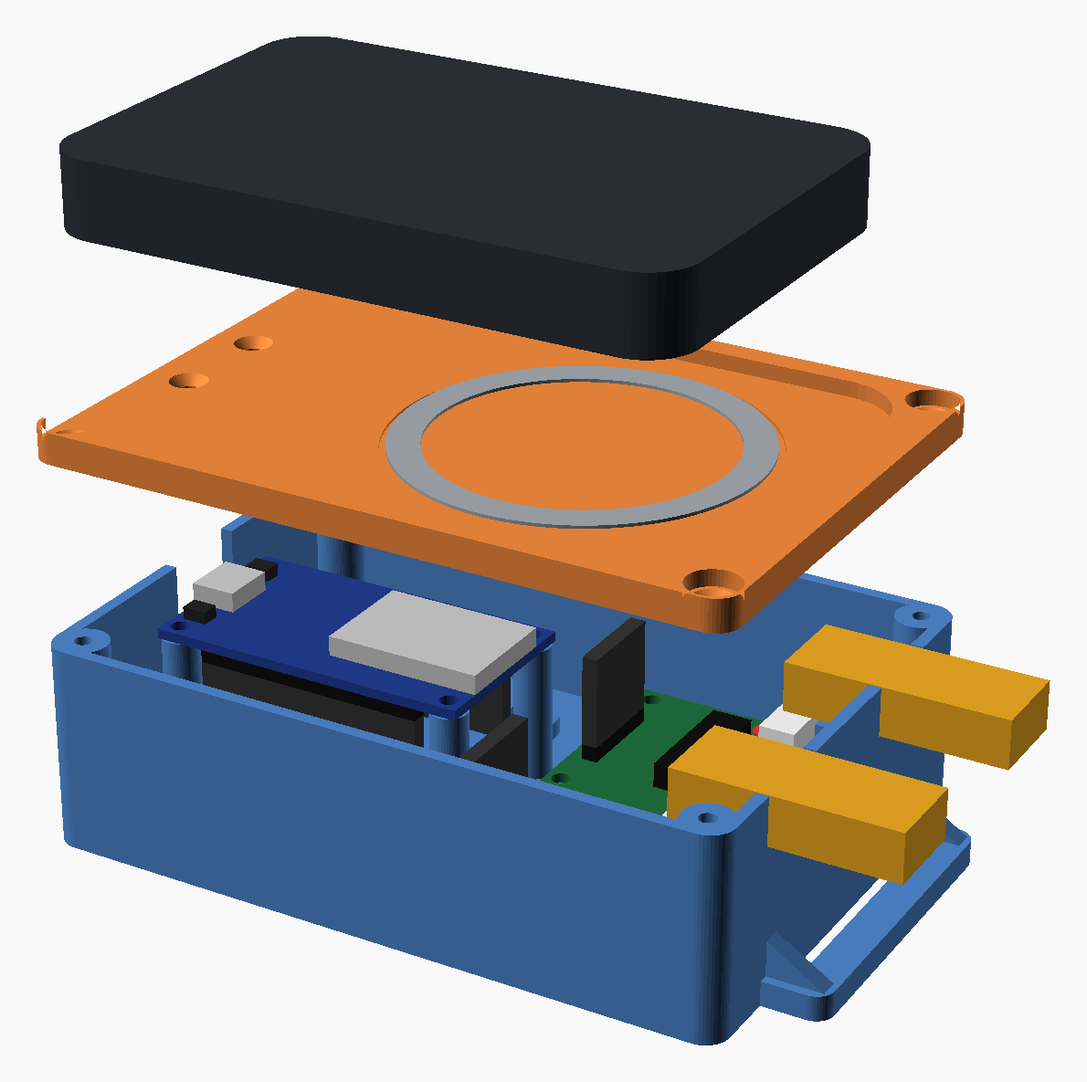
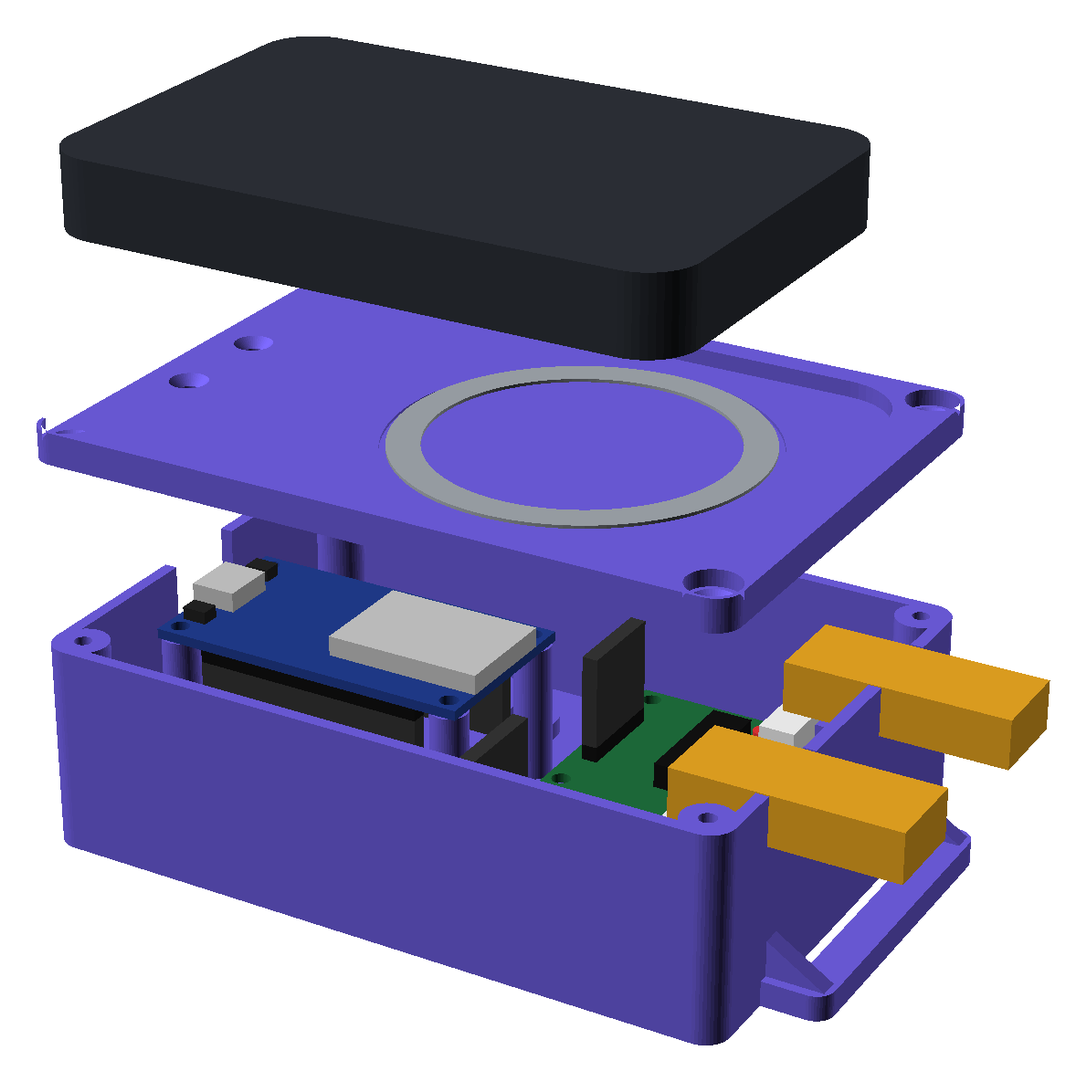
docs: restyle README figures and tighten README text
- Figures redrawn in a plain engineering-drawing style: one typeface,
  thin black lines, square corners, and a single accent taken from the
  printed enclosure.
- Architecture is now a topology diagram with numbered links that match
  the link table; the hub pipeline is simplified.
- The wiring is now a schematic (U1–U3, C1, +5V and ground symbols, motor
  symbols on a shared +5V line). Pin map unchanged.
- Photos are cropped to the belt, with one motor label per photo. The
  enclosure photo and CAD share numbered markers, and the CAD is
  re-rendered in the print color.
- README: numbered figure captions, no slogan, badge row or link row,
  prose in place of bold-led bullets, tables kept for data.

diff --git a/README.md b/README.md
@@ -1,93 +1,73 @@
-<div align="center">
-
 # Haptic Belt
 
-**First-person video in, directional vibration out.**
-A wearable collision-alert prototype for blind and low-vision users, built at HackUTD 2026.
-
 [![CI](https://github.com/chxrro/wayfeel/actions/workflows/ci.yml/badge.svg)](https://github.com/chxrro/wayfeel/actions/workflows/ci.yml)
-![Firmware](https://img.shields.io/badge/firmware-ESP32%20%C2%B7%20PlatformIO-1f2328)
-![Hub](https://img.shields.io/badge/hub-Python%203.11%2B%20%C2%B7%20PyTorch-1f2328)
-![App](https://img.shields.io/badge/app-iOS%2017.2%2B%20%C2%B7%20Swift-1f2328)
-![Status](https://img.shields.io/badge/status-research%20prototype-d9480f)
 
-[Overview](#overview) · [Architecture](#system-architecture) · [Demo](#perception-demo) · [Hardware](#hardware) · [Protocol](#wire-protocol) · [Getting started](#getting-started) · [Results](#measured-results) · [Limitations](#limitations-and-safety)
+A wearable collision-alert prototype for blind and low-vision users, built at HackUTD 2026. Ray-Ban Meta glasses stream the wearer's view to an iPhone, a laptop on the same network estimates collision risk in five directions, and five vibration motors on a belt tell the wearer where the obstacles are.
 
-<img src="docs/images/belt-front.jpg" alt="The haptic belt worn at the waist: a leather belt carrying coin vibration motors wired to a 3D-printed control enclosure on the right hip." width="880">
-
-</div>
+<p align="center">
+  <img src="docs/images/belt-front.jpg" alt="Front view of the belt: three coin vibration motors circled on a leather belt, wired to a purple 3D-printed control enclosure on the right hip." width="100%">
+  <br><sub><b>Fig. 1.</b> The belt. Coin vibration motors sit along the strap; the harness runs in a sleeve to the control enclosure on the right hip (lid removed for the photo).</sub>
+</p>
 
 > [!WARNING]
-> This is an experimental hackathon prototype. It is **not** a mobility aid and must not replace a cane, guide dog or orientation-and-mobility training. Distance, time-to-collision and detection accuracy are unvalidated. Only use it seated, standing, or in a supervised bench setting.
+> This is an experimental hackathon prototype, not a mobility aid. It must not replace a cane, guide dog or orientation-and-mobility training. Distance, time-to-collision and detection accuracy are unvalidated. Use it only seated, standing, or in a supervised bench setting.
 
-## Overview
+## How it works
 
-A pair of Ray-Ban Meta glasses streams the wearer's point of view to an iPhone. The phone forwards frames to a laptop on the same network, where a monocular metric-depth model and a tracked object detector estimate collision risk in five directions. The resulting per-direction intensities travel back to the phone, which relays them over Bluetooth LE to an ESP32 on the belt. The ESP32 drives five coin vibration motors arranged around the waist from the wearer's far left to far right.
+The glasses stream video to the iPhone through Meta's Wearables SDK. The phone forwards JPEG frames over a WebSocket to a laptop, which runs a monocular metric-depth model and a tracked object detector, fuses them into a risk value for each of five directions, and sends the resulting motor levels back to the phone. The phone relays them over Bluetooth LE to an ESP32 on the belt, which drives one motor per direction, from the wearer's far left to far right.
 
-Design rules that shaped the system:
-
-- **A vibration means "obstacle in that direction"**, never "move that way". Obstacle direction and suggested travel direction are kept separate.
-- **Silence is never presented as a clear path.** Stale frames, a stalled model, a dropped phone or a lost BLE link all produce an explicit fault pattern on the belt instead of quiet.
-- **Every command expires.** The belt stops a command after its TTL (250 ms) unless a fresh one arrives, so a crashed laptop or phone cannot leave a motor running.
-- **Inference stays local.** Both perception models run on the laptop (Apple MPS or CUDA). No frames leave the local network in the default configuration.
-
-## System architecture
+A few rules shaped the design. A vibration means there is an obstacle in that direction; it never means "move that way". Silence is never treated as a clear path: stale frames, a stalled model, a dropped phone or a lost Bluetooth link all switch the belt to an explicit fault pattern. Every motor command expires after 250 ms unless a fresh one arrives, so a crashed laptop or phone cannot leave a motor running. Both models run locally on the laptop (Apple MPS or CUDA), and no frames leave the local network in the default configuration.
 
 <p align="center">
-  <img src="docs/images/architecture.png" alt="Six-stage chain: 01 Ray-Ban Meta glasses to 02 iPhone over the Meta Wearables SDK; iPhone to 03 laptop hub over WebSocket port 8765; hub sends status JSON at about 5 Hz to 04 the same iPhone app; iPhone writes an 11-byte BLE command with a 250 ms TTL to 05 the ESP32; the ESP32 drives 06 five ERM motors with PWM and notifies its status every 250 ms." width="820">
+  <img src="docs/images/architecture.png" alt="Topology: glasses send video to the iPhone (1); the iPhone sends JPEG frames to the laptop (2) and receives motor levels back (3) over WebSocket port 8765; the iPhone sends BLE commands with a 250 ms TTL to the ESP32 (4), which reports status back; the ESP32 drives five coin ERM motors through two ULN2003 drivers with PWM (5)." width="100%">
+  <br><sub><b>Fig. 2.</b> System topology. Numbers follow the data through one cycle; the alert path is drawn in purple.</sub>
 </p>
 
-The iPhone appears twice because it plays two roles in one app: it uplinks camera frames to the hub, and it is the BLE central that relays the hub's motor levels to the belt. The laptop can also own the BLE link directly (`haptic-hub run --belt ble`); exactly one central may be connected at a time.
+| # | Link | Transport | Payload | Rate / bound |
+|---|---|---|---|---|
+| 1 | Glasses → iPhone | Meta Wearables Device Access Toolkit 1.0.1 | raw frames, 504 × 896 | 15 fps requested |
+| 2 | iPhone → laptop | WebSocket, `ws://<laptop>:8765/` | `HB` v1 binary: 20-byte header + JPEG (q 0.6) | ≤ 15 fps, newest frame wins, never queued |
+| 3 | Laptop → iPhone | same WebSocket, text | status JSON: `mode`, `levels[5]`, `healthy`, `reason`, `hazards` | ~5 Hz |
+| 4 | iPhone → ESP32 | BLE GATT write-with-response | 11-byte v1 command | ≤ 15 Hz, one write in flight, TTL 250 ms |
+| – | ESP32 → iPhone | BLE notify | 20-byte status: applied `seq`, mode, levels, build id | every 250 ms and on each mode change |
+| 5 | ESP32 → motors | LEDC PWM on GPIO 25, 26, 27, 32, 33 | 8-bit duty per motor, via ULN2003 | 5 kHz |
 
-| Hop | Transport | Payload | Rate / bound |
-|---|---|---|---|
-| Glasses → iPhone | Meta Wearables Device Access Toolkit 1.0.1 | raw frames, 504 × 896 | 15 fps requested |
-| iPhone → hub | WebSocket, `ws://<laptop>:8765/` | `HB` v1 binary: 20-byte header + JPEG (q 0.6) | ≤ 15 fps, newest frame wins, never queued |
-| Hub → iPhone | same WebSocket, text | status JSON: `mode`, `levels[5]`, `healthy`, `reason`, `hazards` | ~5 Hz |
-| iPhone → ESP32 | BLE GATT write-with-response | 11-byte v1 command | ≤ 15 Hz, one write in flight, TTL 250 ms |
-| ESP32 → iPhone | BLE notify | 20-byte status: applied `seq`, mode, levels, build id | every 250 ms and on every mode change |
-| ESP32 → motors | LEDC PWM on GPIO 25, 26, 27, 32, 33 | 8-bit duty per motor via ULN2003 | 5 kHz |
+The phone is the Bluetooth central in this setup. The laptop can own the belt link instead (`haptic-hub run --belt ble`), but only one central may be connected at a time.
 
-### Perception pipeline
-
-All of this lives in [`hub/haptic_hub`](hub/README.md). Every threshold below is a default in `config.py` and has **not** been validated against measured distances.
+### Perception
 
 <p align="center">
-  <img src="docs/images/hub-pipeline.png" alt="Hub pipeline: frame intake feeds a static-obstacle depth branch and a TTC branch; both merge in sector fusion, then the haptic policy and the safety monitor, which emits status JSON to the iPhone." width="100%">
+  <img src="docs/images/hub-pipeline.png" alt="Hub pipeline: frame buffer feeds Depth Anything V2 and YOLO11n with ByteTrack; their risks merge in sector fusion, then the haptic policy and a safety gate that outputs levels or a fault." width="100%">
+  <br><sub><b>Fig. 3.</b> Processing on the laptop, in <a href="hub/README.md"><code>hub/haptic_hub</code></a>.</sub>
 </p>
 
-1. **Static obstacles.** [Depth Anything V2](https://github.com/DepthAnything/Depth-Anything-V2) *Metric Indoor Small* (outdoor variant via `--outdoor`) predicts metres per pixel. The frame is split into five vertical strips; each strip takes the 5th-percentile depth in the middle band of the image (the bottom band is floor). Risk ramps linearly from 0 at 2.5 m to 1 at 0.6 m.
-2. **Approaching objects.** [YOLO11n](https://docs.ultralytics.com/models/yolo11/) with ByteTrack assigns a persistent ID to each object. Time-to-collision is estimated from box growth, TTC ≈ h / (dh/dt), fitted over 0.6 s. Risk ramps from 0 at 3 s to 1 at 1 s, applied to every strip the box covers.
-3. **Fusion.** `risk[sector] = max(depth_risk, ttc_risk[, flow_risk])`. Optional Lucas–Kanade optical flow (`--motion flow`) can only raise risk.
-4. **Haptic policy.** Rising risk applies immediately, falling risk decays, a deadband suppresses noise, and the result maps to PWM 90–255 (0 = off).
-5. **Safety monitor.** No frame for 1 s, no result for 1.5 s, a result computed from a frame older than 1 s, or a model exception switches the belt to the fault pattern.
+The hub keeps only the newest frame and runs two branches on it. For static obstacles, [Depth Anything V2](https://github.com/DepthAnything/Depth-Anything-V2) (*Metric Indoor Small*, or the outdoor variant with `--outdoor`) predicts metres per pixel; each of five vertical strips takes the 5th-percentile depth in the middle band of the image, and risk ramps from 0 at 2.5 m to 1 at 0.6 m. For approaching objects, [YOLO11n](https://docs.ultralytics.com/models/yolo11/) with ByteTrack follows each object, time-to-collision is estimated from box growth (TTC ≈ h / (dh/dt), fitted over 0.6 s), and risk ramps from 0 at 3 s to 1 at 1 s across the strips the box covers.
 
-Opt-in alternatives: `--detector openvocab` swaps YOLO11n for text-prompted [YOLOE](https://docs.ultralytics.com/models/yoloe/) (poles, bollards, stairs, curbs), and `--alert-profile stable` requires three frames over 200 ms before a moderate alert fires. See the [hub README](hub/README.md) for timings and trade-offs.
+Each sector takes the larger of the two risks. Optional Lucas–Kanade optical flow (`--motion flow`) can only raise it. The haptic policy applies rising risk immediately, lets falling risk decay, ignores values below a deadband, and maps the result to PWM 90–255. A safety gate replaces the levels with the fault pattern when no frame has arrived for 1 s, no result for 1.5 s, the result came from a frame older than 1 s, or a model raised an exception. All of these thresholds are defaults in `config.py`; none has been validated against measured distances.
 
-## Perception demo
+Two alternatives are opt-in: `--detector openvocab` swaps YOLO11n for text-prompted [YOLOE](https://docs.ultralytics.com/models/yoloe/) to catch poles, bollards, stairs and curbs, and `--alert-profile stable` requires three frames over 200 ms before a moderate alert fires. The [hub README](hub/README.md) has timings and trade-offs.
+
+## Demo
 
 <table>
 <tr>
 <td width="300" valign="top">
-<img src="docs/media/yolo-demo.gif" alt="Hub renderer output: indoor corridor seen from the glasses with magenta person boxes, orange object boxes, five sector columns, per-sector distance and TTC estimates, and red motor-level bars." width="288">
+<img src="docs/media/yolo-demo.gif" alt="Hub renderer output: indoor corridor seen from the glasses with person and object boxes, five sector columns, per-sector distance and TTC estimates, and motor-level bars." width="288">
 </td>
 <td valign="top">
 
-Hub renderer output while streaming live from the glasses (10 s excerpt, 8 fps GIF). **[Full 60 s recording (MP4)](docs/media/yolo-demo.mp4).** Bystanders' faces are blurred in post-processing.
-
-Real models on real glasses frames: Depth Anything V2 Metric Indoor Small and YOLO11n + ByteTrack on Apple MPS. Phone haptics were enabled; **no physical belt was connected**, so motor output is the hub's computed levels.
+The hub's debug view while streaming live from the glasses, with real models on Apple MPS (10 s excerpt; [full 60 s MP4](docs/media/yolo-demo.mp4)). Phone haptics were on and no physical belt was connected, so the bars show the levels the hub computed. Bystanders' faces are blurred.
 
 | Overlay | Meaning |
 |---|---|
-| `LEVELS 31 ms [glasses]` | belt mode, inference time, declared frame source |
-| magenta box | `PERSON #id` (ByteTrack ID) |
-| orange box | `object:<COCO class> #id` |
+| `LEVELS 31 ms [glasses]` | belt mode, inference time, frame source |
+| magenta / orange box | person / object, with ByteTrack ID |
 | white columns | the five sector boundaries |
-| `5.1m 2.6s` | per-sector depth and TTC **estimates** |
-| red bars | per-motor level sent toward the belt |
-| `9.8fps drop 7 … tot 82 ms` | hub input rate and per-stage latency |
+| `5.1m 2.6s` | per-sector depth and TTC estimate |
+| red bars | level sent toward each motor |
+| `9.8fps … tot 82 ms` | hub input rate and per-stage latency |
 
-Detections and distances are model outputs, not ground truth.
+Boxes and distances are model outputs, not ground truth.
 
 </td>
 </tr>
@@ -96,48 +76,45 @@ Detections and distances are model outputs, not ground truth.
 ## Hardware
 
 <p align="center">
-  <img src="docs/images/belt-side.jpg" alt="Side view: two coin vibration motors circled along the wearer's left side, with the sleeved harness running between them." width="620">
-  <br><sub>Left side of the belt, continuing from the front view at the top of the page. The motor harness runs in a sleeve along the belt to the enclosure on the right hip.</sub>
+  <img src="docs/images/belt-side.jpg" alt="Side view of the belt with two coin vibration motors circled on the wearer's left side." width="640">
+  <br><sub><b>Fig. 4.</b> Left side of the belt. The motors continue around the waist from the front view in Fig. 1.</sub>
 </p>
-
-### Bill of materials
 
 | Qty | Part | Role |
 |---:|---|---|
-| 1 | Ray-Ban Meta (Gen 2) glasses | first-person camera, Developer Mode enabled in Meta AI |
+| 1 | Ray-Ban Meta (Gen 2) glasses | camera; Developer Mode enabled in Meta AI |
 | 1 | iPhone (tested: iPhone 17, iOS 27.2) | frame uplink and BLE relay |
-| 1 | Apple-silicon laptop (tested: MacBook, MPS) | local inference hub |
-| 1 | ESP32 DevKit V1, 30-pin, USB-C | BLE GATT server, PWM, TTL watchdog |
-| 2 | Inland ULN2003 driver boards | low-side switching, one channel per motor |
-| 5 | Generic coin ERM vibration motors | haptic output, index 0 = far left |
-| 1 | 470 µF electrolytic capacitor | bulk decoupling across the 5 V rail |
-| 1 | Veektomx MagSafe power bank, built-in USB-C | sole power input via the ESP32's USB-C |
+| 1 | Apple-silicon laptop (tested: MacBook, MPS) | local inference |
+| 1 | ESP32 DevKit V1, 30-pin, USB-C | BLE peripheral, PWM, command watchdog |
+| 2 | Inland ULN2003 driver boards | low-side switch, one channel per motor |
+| 5 | Generic coin ERM vibration motors | haptic output |
+| 1 | 470 µF electrolytic capacitor | bulk decoupling on the 5 V rail |
+| 1 | Veektomx MagSafe power bank, built-in USB-C | only power input, through the ESP32's USB-C |
 | 2 | 5-wire JST-XH stepper cables + ribbon extension | motor harness, cut and spliced |
 | 1 | 3D-printed enclosure (base, lid, clip) | [`cad/belt-enclosure`](cad/belt-enclosure/README.md) |
 | 1 | Leather belt | motor carrier |
 
-### Control enclosure: as built vs. CAD
+### Enclosure
 
 <p align="center">
-  <img src="docs/images/enclosure-photo-vs-cad.jpg" alt="Left: the printed enclosure with its lid removed, showing the ESP32, the jumper harness to the ULN2003 boards, and a vibration motor on the belt. Right: the OpenSCAD model of the same enclosure with the ESP32 on pillars, two ULN2003 boards on rails, motor harness exits and belt clip." width="100%">
+  <img src="docs/images/enclosure-photo-vs-cad.jpg" alt="Left: the printed enclosure with the lid removed. Right: the OpenSCAD model of the same enclosure. Numbered markers 1 to 4 identify the same parts in both." width="100%">
+  <br><sub><b>Fig. 5.</b> The enclosure as printed (left) and as modeled (right). 1 ESP32 DevKit V1 · 2 ULN2003 drivers and jumper harness · 3 motor harness exit · 4 USB-C power input.</sub>
 </p>
 
-The enclosure is a parametric [OpenSCAD model](cad/belt-enclosure/belt_enclosure.scad) with every dimension exposed as a named parameter. `./build.sh` exports print-ready STL/3MF files (base, lid and clip on one 233 × 168 mm plate, no supports), renders previews, and runs interference checks that fail the build if any two parts overlap by ≥ 0.02 mm.
+The enclosure is a parametric [OpenSCAD model](cad/belt-enclosure/belt_enclosure.scad) with every dimension exposed as a named parameter. `./build.sh` exports print-ready STL and 3MF files (base, lid and clip on one 233 × 168 mm plate, no supports), renders previews, and fails if any two parts overlap by 0.02 mm or more. Several dimensions were estimated from photos before the parts were measured and are marked `MEASURE` in the source.
 
 <table>
 <tr>
-<td width="38%"><img src="docs/images/cad-exploded.png" alt="Exploded CAD view: power bank above the lid with its steel ring pocket, above the base holding the ESP32 and driver boards."></td>
+<td width="38%"><img src="docs/images/cad-exploded.png" alt="Exploded CAD view: power bank above the lid and its steel ring pocket, above the base holding the ESP32 and driver boards."></td>
 <td valign="top">
 
 | Property | Value |
 |---|---|
-| Outer size (default parameters) | 112.3 × 78 × 35.5 mm (132.3 mm with belt ears) |
-| Stack-up | webbing → base → ULN2003 on 4 mm rails, ESP32 on 20 mm pillars → lid → MagSafe ring → bank |
-| Openings | USB-C notch only; 2 harness U-notches clamped by the lid |
-| Fasteners | 4 × M3 × 10 lid screws, 2 × M3 + captive hex nuts for the clip |
+| Outer size (default parameters) | 112.3 × 78 × 35.5 mm, 132.3 mm with belt ears |
+| Stack-up | webbing, base, ULN2003 on 4 mm rails and ESP32 on 20 mm pillars, lid, MagSafe ring, power bank |
+| Openings | USB-C notch; two harness notches clamped by the lid |
+| Fasteners | 4 × M3 × 10 for the lid; 2 × M3 with captive nuts for the clip |
 | Print | PETG preferred, 0.2 mm layers, 4 walls, 20–25 % infill |
-
-Several dimensions were estimated from photos before parts were measured; they are marked `MEASURE` in the source.
 
 </td>
 </tr>
@@ -146,37 +123,38 @@ Several dimensions were estimated from photos before parts were measured; they a
 ### Wiring
 
 <p align="center">
-  <img src="docs/images/belt-wiring.png" alt="Wiring diagram: power bank USB-C to ESP32; GPIO25, 26, 27 and 32 to driver board A IN1 to IN4; GPIO33 to driver board B IN1; VIN and GND rails with a 470 microfarad capacitor feed both boards; board outputs A to D sink motors M0 to M3 and board B output A sinks M4; every motor's red lead joins a shared 5 V wire." width="100%">
+  <img src="docs/images/belt-wiring.png" alt="Schematic: power bank into the ESP32's USB input; VIN is the +5 V net with C1 470 microfarads to ground; GPIO25, 26, 27 and 32 drive U2 inputs 1 to 4 and GPIO33 drives U3 input 1; driver outputs A to D sink motors M0 to M3 and U3 output A sinks M4; each motor's other lead is on +5 V; unused U3 channels are not connected." width="860">
+  <br><sub><b>Fig. 6.</b> Belt schematic. U2 and U3 are the two ULN2003 boards; their unused channels are cut and insulated.</sub>
 </p>
 
 | Motor | Position | ESP32 pin | Driver channel | Harness wire |
 |---|---|---|---|---|
-| M0 | far left | GPIO25 | board A, IN1 → A | blue |
-| M1 | left | GPIO26 | board A, IN2 → B | pink |
-| M2 | center | GPIO27 | board A, IN3 → C | yellow |
-| M3 | right | GPIO32 | board A, IN4 → D | orange |
-| M4 | far right | GPIO33 | board B, IN1 → A | blue |
+| M0 | far left | GPIO25 | U2 IN1 → A | blue |
+| M1 | left | GPIO26 | U2 IN2 → B | pink |
+| M2 | center | GPIO27 | U2 IN3 → C | yellow |
+| M3 | right | GPIO32 | U2 IN4 → D | orange |
+| M4 | far right | GPIO33 | U3 IN1 → A | blue |
 
-Each ULN2003 channel sinks the motor's negative lead while every positive lead sits on the shared 5 V wire, so each motor's strength is set independently by its PWM duty (capped by `kMaxDuty` in [`esp32/include/config.h`](esp32/include/config.h)). The pins avoid ESP32 strapping pins (0, 2, 12, 15) and input-only pins (34–39). The motor order must match the firmware or alerts point the wrong way; verify it with `haptic-hub bench --only motor-map` or the app's per-motor test. The diagram's rail voltage and the motors' current draw have not been measured.
+Each ULN2003 channel sinks one motor's negative lead while every positive lead sits on the shared 5 V wire, so each motor's strength follows its own PWM duty, capped by `kMaxDuty` in [`esp32/include/config.h`](esp32/include/config.h). The pins avoid the ESP32's strapping pins (0, 2, 12, 15) and input-only pins (34–39). The physical order has to match the firmware or alerts point the wrong way; check it with `haptic-hub bench --only motor-map` or the app's per-motor test. Rail voltage and motor current have not been measured.
 
-### Belt behavior
+### What the wearer feels
 
-| Situation | What the wearer feels |
+| Situation | Belt output |
 |---|---|
-| Boot, before any central connects | self-test sweep left → right, then silent |
-| Obstacle risk in one or more sectors | the matching motors vibrate, stronger as risk rises |
-| No risk above threshold | `off`: silent, which is **not** a guarantee of a clear path |
-| Hub cannot vouch for its output (`fault`) | double pulse on all motors every 2 s |
-| No valid command within the TTL, or BLE dropped | motors stop, fault pattern for 30 s, then dormant |
-| Pause / resume / session ended (laptop-owned BLE link) | outside-in cue / inside-out cue / three fading inner pulses; through the iPhone relay these hub states arrive as `fault` |
+| Boot, before a central connects | self-test sweep left to right, then silent |
+| Obstacle risk in one or more sectors | matching motors vibrate, stronger as risk rises |
+| No risk above threshold | silent, which does not mean the path is clear |
+| Hub cannot vouch for its output | double pulse on all motors every 2 s |
+| No valid command within the TTL, or BLE lost | motors stop, fault pattern for 30 s, then dormant |
+| Pause, resume, session ended (laptop-owned link) | outside-in cue, inside-out cue, three fading pulses; through the iPhone relay these arrive as a fault |
 
-Implemented in [`esp32/lib/belt_core`](esp32/lib/belt_core/src) as plain C++ with no Arduino dependencies, so the same logic runs in the firmware, in host unit tests and inside the hub's simulator.
+This logic lives in [`esp32/lib/belt_core`](esp32/lib/belt_core/src), plain C++ with no Arduino dependency, so the same code runs in the firmware, in host unit tests and inside the hub's simulator.
 
 ## Wire protocol
 
-The three components share one contract, [`docs/protocol.md`](docs/protocol.md). All integers are little-endian, every message carries a version byte, and golden vectors are checked by tests in `hub/`, `esp32/` and `meta/`.
+The three components share one contract, [`docs/protocol.md`](docs/protocol.md). Integers are little-endian, every message carries a version byte, and golden vectors are checked by tests in `hub/`, `esp32/` and `meta/`.
 
-**Frame packet** (phone → hub, WebSocket binary)
+Frame packet, phone to laptop (WebSocket binary):
 
 ```text
  0      2    3     4           8                16       18       20
@@ -185,7 +163,7 @@ The three components share one contract, [`docs/protocol.md`](docs/protocol.md).
  └──────┴────┴─────┴───────────┴────────────────┴────────┴────────┴──────────┘
 ```
 
-**Haptic command** (central → belt, BLE write to `71dbf1b6-…-b8a38e54618f`)
+Haptic command, central to belt (BLE write to `71dbf1b6-…-b8a38e54618f`):
 
 ```text
  0      1      2     3            5       6
@@ -198,44 +176,42 @@ The three components share one contract, [`docs/protocol.md`](docs/protocol.md).
          levels · seq 7 · ttl 250 · [0, 64, 128, 192, 255]
 ```
 
-The belt also exposes an info characteristic (`[version, motor_count]` + build id) and a status characteristic that reports the last **applied** sequence number, its age and the live motor levels. Centrals use status to distinguish "the radio accepted the write" from "the firmware is following it".
+The belt also exposes an info characteristic (protocol version, motor count and build id) and a status characteristic with the last applied sequence number, its age and the live motor levels. Centrals use the status to tell "the radio accepted the write" apart from "the firmware is following it".
 
 ## Repository layout
 
 | Path | Contents | Runs on |
 |---|---|---|
-| [`hub/`](hub/README.md) | perception, haptic policy, safety monitor, BLE/sim belt, dashboard, recorder, simulator | laptop, Python 3.11+ |
-| [`esp32/`](esp32/README.md) | NimBLE GATT server, PWM motor driver, TTL/fault logic, serial bench console | ESP32 (PlatformIO, Arduino) |
-| [`meta/`](meta/README.md) | HapticBelt iOS app: glasses stream, hub client, BLE belt relay, speech, phone haptics | iPhone (Swift, XcodeGen) |
-| [`ios/`](docs/camera-bridge.md) | Camera Bridge, the earlier wearer-app and streaming diagnostic | iPhone |
-| [`desktop/`](desktop/viewer.py) | local browser viewer for Camera Bridge | Mac |
-| [`cad/`](cad/belt-enclosure/README.md) | parametric enclosure, export and interference-check script | OpenSCAD |
-| [`docs/`](docs) | protocol, hardware bring-up runbook, glasses setup, navigation research, project log | — |
+| [`hub/`](hub/README.md) | perception, haptic policy, safety monitor, BLE and simulated belt, dashboard, recorder, simulator | laptop, Python 3.11+ |
+| [`esp32/`](esp32/README.md) | NimBLE GATT server, PWM motor driver, TTL and fault logic, serial bench console | ESP32, PlatformIO |
+| [`meta/`](meta/README.md) | HapticBelt iOS app: glasses stream, hub client, BLE belt relay, speech, phone haptics | iPhone, Swift |
+| [`ios/`](docs/camera-bridge.md) | Camera Bridge, the earlier streaming diagnostic | iPhone |
+| [`desktop/`](desktop/viewer.py) | browser viewer for Camera Bridge | Mac |
+| [`cad/`](cad/belt-enclosure/README.md) | parametric enclosure and build script | OpenSCAD |
+| [`docs/`](docs) | protocol, hardware bring-up runbook, glasses setup, navigation research, project log | |
 
 ## Getting started
 
-### Hub only (no hardware)
-
-Requires [uv](https://docs.astral.sh/uv/). The first real run downloads Depth Anything V2 Small (~100 MB) and `yolo11n.pt` (~6 MB).
+To try the hub without any hardware, install [uv](https://docs.astral.sh/uv/). The first real run downloads Depth Anything V2 Small (~100 MB) and `yolo11n.pt` (~6 MB).
 
 ```bash
 cd hub
 uv sync --extra vision
 uv run haptic-hub run --source webcam --belt sim --show          # laptop webcam, simulated belt
-uv run haptic-hub run --source video:walk.mp4 --belt sim --show  # any recorded clip
+uv run haptic-hub run --source video:walk.mp4 --belt sim --show  # a recorded clip
 uv run python -m haptic_hub.sim                                  # scripted end-to-end scenarios
 ```
 
-### Full loop: glasses → iPhone → hub → iPhone → belt
+The full loop needs the belt, the glasses and the phone:
 
 ```bash
-# 1. Belt firmware (ESP32 on USB)
+# 1. Belt firmware, ESP32 on USB
 cd esp32
 pio test -e native             # host-side logic tests
 pio run -e esp32dev -t upload  # build and flash
 pio device monitor             # 115200 baud; boots with a left-to-right self-test
 
-# 2. Hub: real perception, phone owns the BLE link
+# 2. Hub with real perception; the phone owns the BLE link
 cd hub
 uv run haptic-hub run --source glasses --perception vision --belt sim --device mps --show
 #   prints the address to enter in the app, e.g. ws://192.168.x.y:8765
@@ -246,42 +222,42 @@ cp Config/Local.xcconfig.example Config/Local.xcconfig   # set DEVELOPMENT_TEAM 
 xcodegen generate && open HapticBelt.xcodeproj           # run on a physical iPhone
 ```
 
-In the app: connect the glasses through Meta AI, start the camera, enter the hub address, then under **ESP32 belt · phone Bluetooth** pick the belt, test each motor, and only then enable **Send alerts to belt**. Glasses Developer Mode, network requirements and troubleshooting are covered in [`meta/README.md`](meta/README.md) and [`docs/meta-setup.md`](docs/meta-setup.md). Hardware-day checks with pass/fail criteria are in [`docs/hardware-bringup.md`](docs/hardware-bringup.md).
+In the app, connect the glasses through Meta AI, start the camera and enter the hub address. Then, under **ESP32 belt · phone Bluetooth**, pick the belt and test each motor before enabling **Send alerts to belt**. [`meta/README.md`](meta/README.md) and [`docs/meta-setup.md`](docs/meta-setup.md) cover glasses Developer Mode, networking and troubleshooting; [`docs/hardware-bringup.md`](docs/hardware-bringup.md) has hardware-day checks with pass/fail criteria.
 
-### Enclosure
+To rebuild the enclosure:
 
 ```bash
 cd cad/belt-enclosure
-./build.sh                                 # STL/3MF + renders + interference checks
+./build.sh                                 # STL/3MF, renders, interference checks
 ./build.sh -D bank_l=98.4 -D bank_w=64.2   # override measured dimensions
 ```
 
 ## Measured results
 
-Each figure is labelled with how it was obtained. *Hardware* means a real phone, glasses or belt; *replayed* means recorded or still images fed through the real pipeline; *simulation* means the real hub against a scripted world.
+*Hardware* means a real phone, glasses or belt; *replayed* means recorded or still images through the real pipeline; *simulation* means the real hub in a scripted world.
 
 | Measurement | Result | Evidence |
 |---|---|---|
-| Glasses → hub frame rate after the phone's rate-limiter fix | 12.0–12.6 fps (four 5 s windows) | hardware, 2026-11-08 |
-| Hub on live glasses frames, depth + YOLO11n, Apple MPS | 12.6 fps in, 12.4 fps perception, inference 33 ms median / 36 ms p90 | hardware, one 5 s window |
-| YOLO11n `track()` alone, M4 Max | 9.2 ms median / 11.3 ms p90 | replayed stills |
-| Full `vision` step (depth + YOLO11n), M4 Max | 40.4 ms median / 45.7 ms p90 (15 Hz budget: 67 ms) | replayed stills |
-| iPhone → ESP32 BLE heartbeat, alerts off | 1,659 commands over ~130 s, 0 TTL expiries, max gap 180 ms, max firmware queue delay 7 ms | hardware, belt on USB |
-| End-to-end scenarios (direction, approach, head motion, stale frames, disconnects, model crash, lost BLE writes) | 24 / 24 pass, each shown to fail on a deliberately broken hub | simulation, ground-truth stand-ins for the models |
+| Glasses → laptop frame rate, after the phone's rate-limiter fix | 12.0–12.6 fps over four 5 s windows | hardware, 2026-11-08 |
+| Hub on live glasses frames, depth + YOLO11n, Apple MPS | 12.6 fps in, 12.4 fps perception; inference 33 ms median, 36 ms p90 | hardware, one 5 s window |
+| YOLO11n `track()` alone, M4 Max | 9.2 ms median, 11.3 ms p90 | replayed stills |
+| Full `vision` step, depth + YOLO11n, M4 Max | 40.4 ms median, 45.7 ms p90 (15 Hz budget: 67 ms) | replayed stills |
+| iPhone → ESP32 BLE heartbeat, alerts off | 1,659 commands over ~130 s; no TTL expiries; max gap 180 ms; max firmware queue delay 7 ms | hardware, belt on USB |
+| End-to-end scenarios: direction, approach, head motion, stale frames, disconnects, model crash, lost BLE writes | 24 of 24 pass; each check shown to fail on a deliberately broken hub | simulation, ground-truth stand-ins for the models |
 
-CI runs `uv run pytest` for the hub and `pio test -e native` plus a compile-only `pio run -e esp32dev` for the firmware on every pull request. The iOS app is tested locally on the simulator and is not built in CI. CI does not load models or exercise a camera, BLE or the belt.
+CI runs the hub's `pytest` suite, the firmware's native tests and a compile-only firmware build on every pull request. It does not load models or touch a camera, Bluetooth or the belt, and the iOS app is tested locally on the simulator rather than in CI.
 
-**Not yet measured:** detection, distance and TTC accuracy; capture-to-vibration latency; BLE reliability under full streaming load; how distinguishable the five motors are to a wearer.
+Not yet measured: detection, distance and TTC accuracy; capture-to-vibration latency; Bluetooth reliability under full streaming load; and how well a wearer can tell the five motors apart.
 
-## Limitations and safety
+## Limitations
 
-- **Head-mounted camera, torso-mounted belt.** Directions are relative to where the wearer is looking, not where the body is facing.
-- **Coverage gaps.** Low obstacles, curbs, drop-offs, thin poles and transparent glass are largely missed by both depth and detection in our tests.
-- **Box-growth TTC lags.** In simulation it reads roughly 0.35 s late, and a static wall or pole produces little box growth until it is close.
-- **BLE delivery is not fully characterized.** Isolated TTL expiries (receive gaps up to 270 ms) were observed before the 15 Hz cadence change, and the firmware watchdog caught each one. The latest build has only been checked with alerts off and the glasses disconnected.
-- **Privacy.** Recording is off by default (`--record` enables it). Recordings can show bystanders' faces and locations: obtain consent, keep them out of git, and delete them when done.
+The camera is on the head and the belt is on the torso, so directions are relative to where the wearer is looking, not where the body faces. Low obstacles, curbs, drop-offs, thin poles and glass are largely missed by both depth and detection in our tests. Box-growth TTC reads about 0.35 s late in simulation, and a static wall or pole produces little box growth until it is close.
 
-Development history, decisions and the evidence behind each claim are recorded in [`docs/project-context.md`](docs/project-context.md).
+Bluetooth delivery is not fully characterized. Isolated command expiries (receive gaps up to 270 ms) occurred before the 15 Hz cadence change, and the firmware watchdog caught each one; the latest build has only been checked with alerts off and the glasses disconnected.
+
+Recording is off by default (`--record` turns it on). Recordings can show bystanders' faces and locations, so get consent, keep them out of git and delete them when done.
+
+The development log, decisions and the evidence behind each claim are in [`docs/project-context.md`](docs/project-context.md).
 
 ## Team
 
